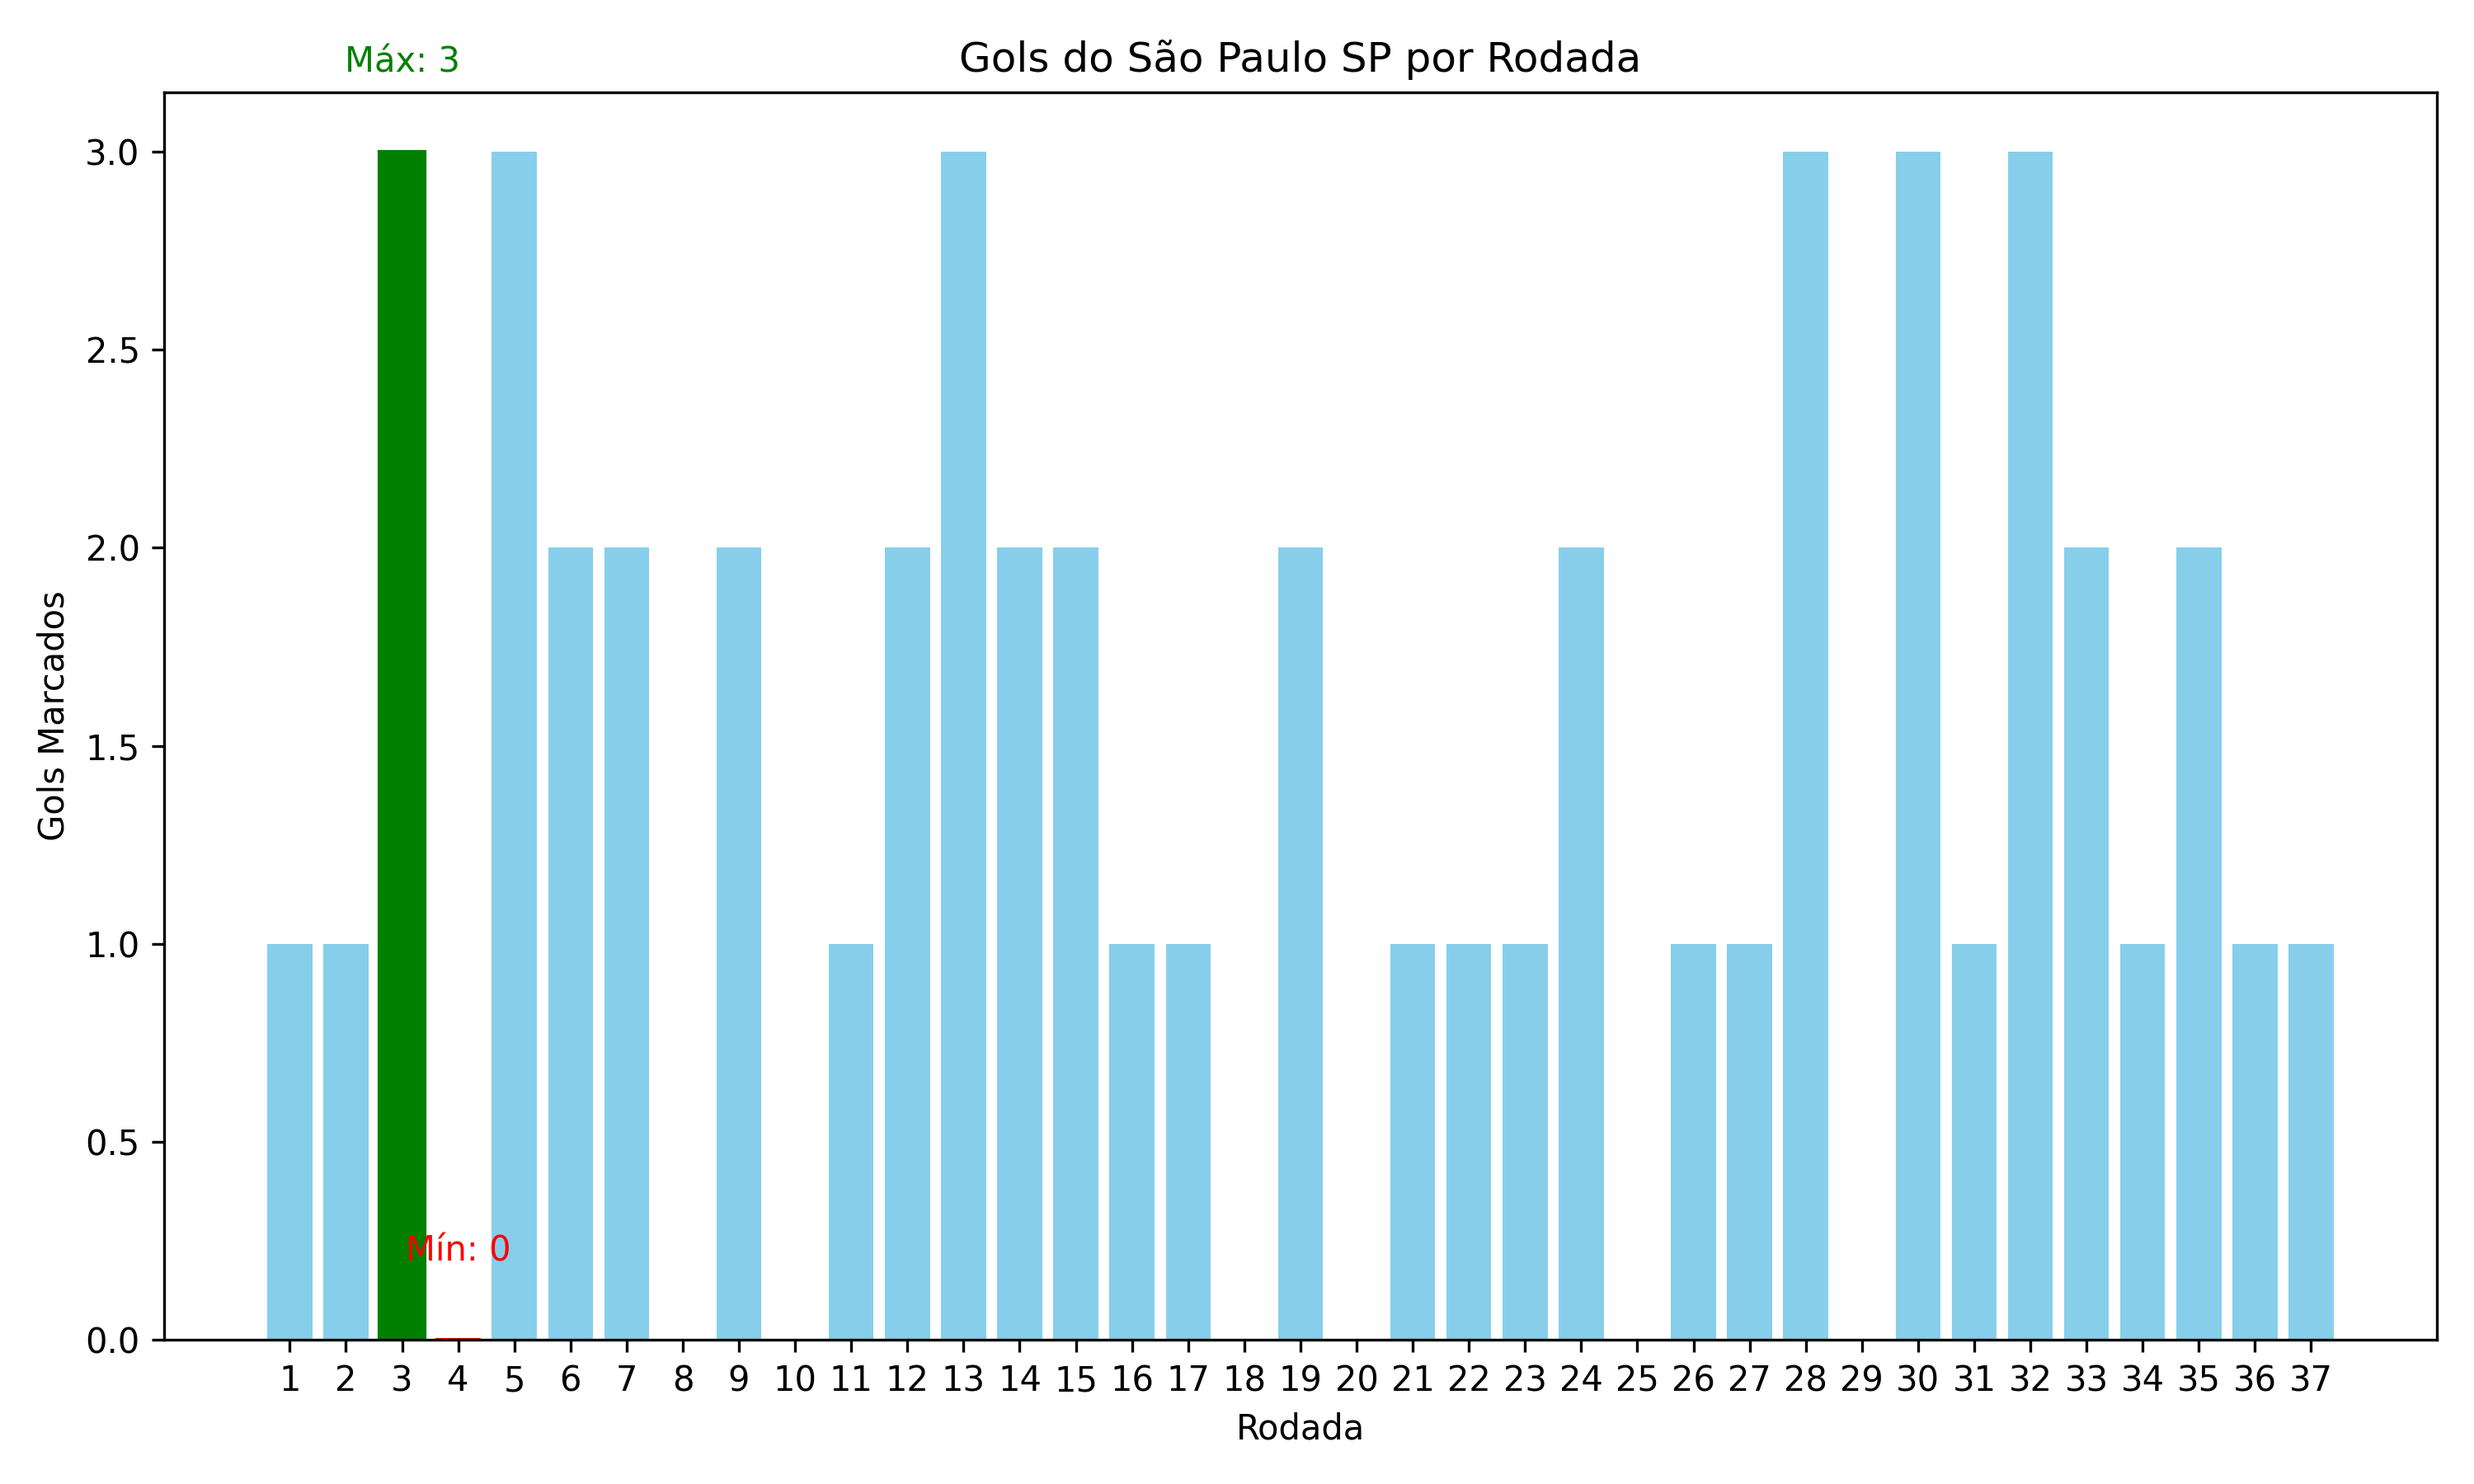
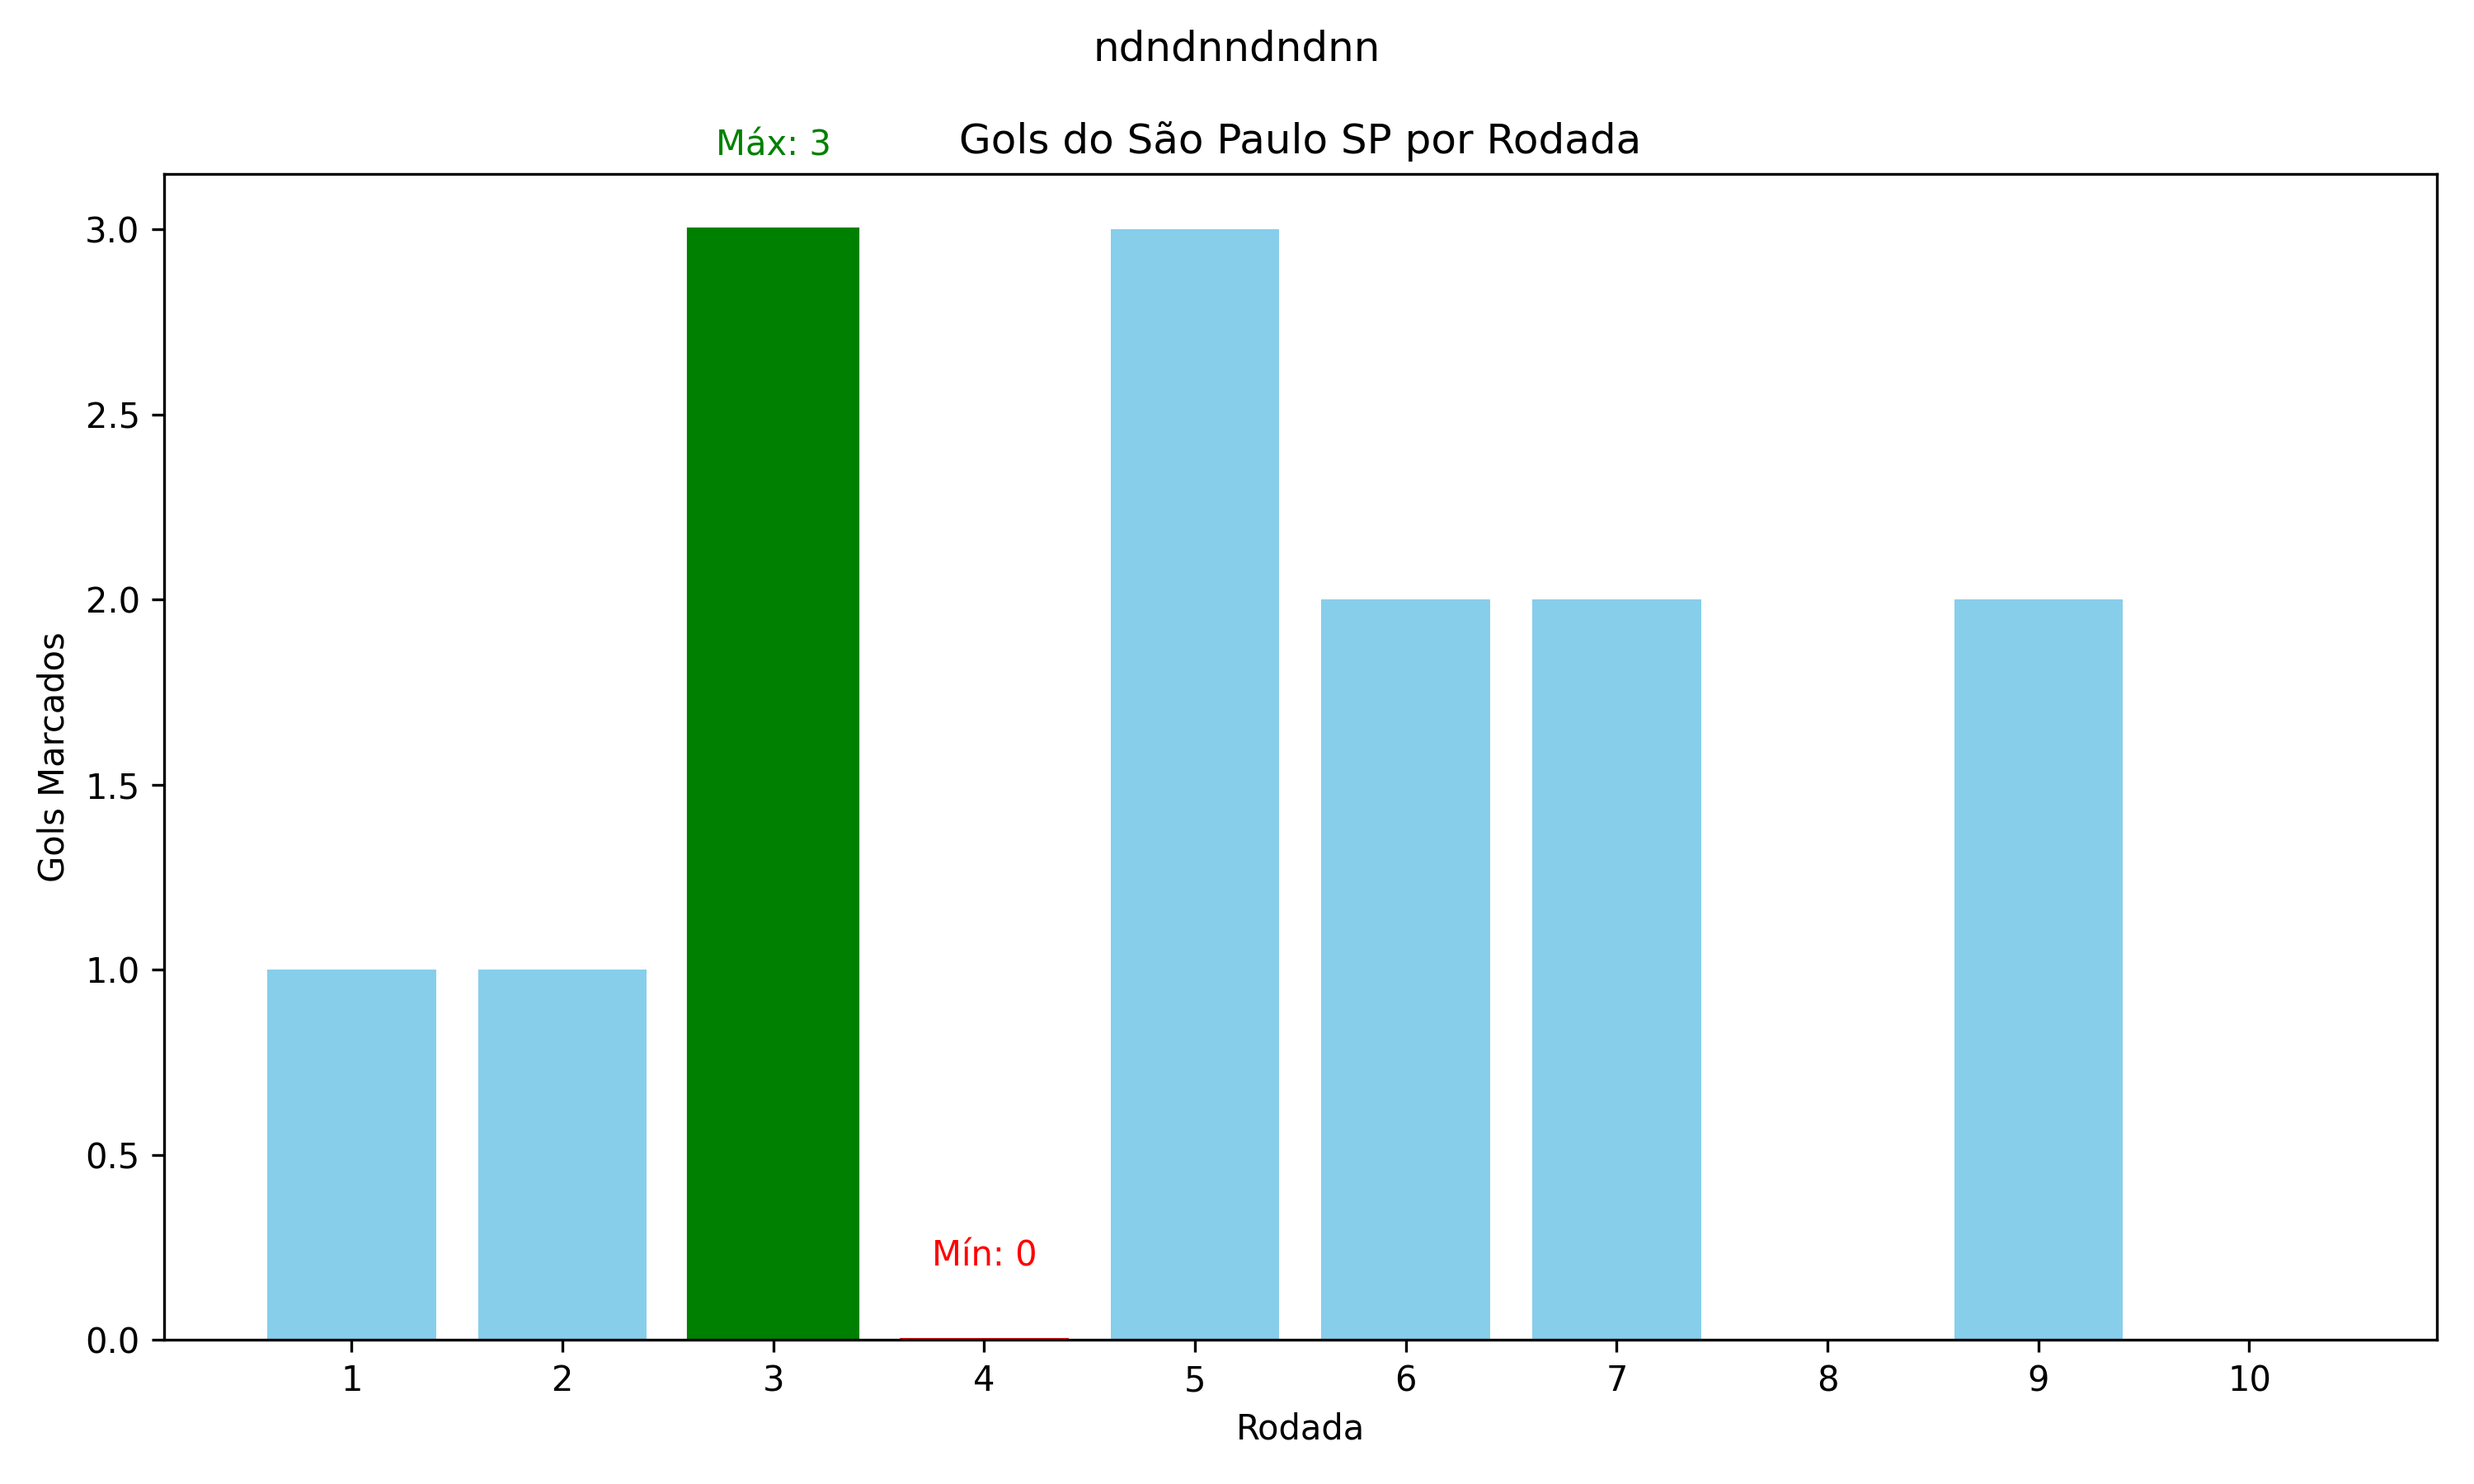
Gerando a saida do grafico para a pasta img

diff --git a/ETL/analyze_brasileirao2024.py b/ETL/analyze_brasileirao2024.py
@@ -1,5 +1,6 @@
 import pandas as pd
 import matplotlib.pyplot as plt
+import os
 
 # Caminho para o arquivo Excel
 path_excel = 'File/Brasileiro_2024.xlsx'
@@ -62,8 +63,8 @@ if 'ROD_NUM' not in df.columns:
     df['ROD_NUM'] = df['ROD'].str.extract(r'(\d+)').astype(int)
 
 # Filtra jogos com São Paulo SP como mandante ou visitante
-sp_mandante = df[df['GolMandante'].str.contains(r'^São Paulo SP', regex=True)].copy()
-sp_visitante = df[df['GolVisitante'].str.contains(r'^São Paulo SP', regex=True)].copy()
+sp_mandante = df_filter_2rod[df_filter_2rod['GolMandante'].str.contains(r'^São Paulo SP', regex=True)].copy()
+sp_visitante = df_filter_2rod[df_filter_2rod['GolVisitante'].str.contains(r'^São Paulo SP', regex=True)].copy()
 
 # Extrai gols e rodada
 sp_mandante['GOLS'] = sp_mandante['GolMandante'].str.extract(r' - (\d+)$').astype(int)
@@ -93,7 +94,7 @@ bars[gols_por_rodada.index.get_loc(rodada_max)].set_color('green')
 bars[gols_por_rodada.index.get_loc(rodada_min)].set_color('red')
 
 # Rótulos
-plt.title('Gols do São Paulo SP por Rodada')
+plt.title('Gols do São Paulo SP até a decima Rodada')
 plt.xlabel('Rodada')
 plt.ylabel('Gols Marcados')
 plt.xticks(gols_por_rodada.index)
@@ -102,6 +103,8 @@ plt.xticks(gols_por_rodada.index)
 plt.text(rodada_max, gols_por_rodada[rodada_max] + 0.2, f'Máx: {gols_por_rodada[rodada_max]}', ha='center', color='green')
 plt.text(rodada_min, gols_por_rodada[rodada_min] + 0.2, f'Mín: {gols_por_rodada[rodada_min]}', ha='center', color='red')
 
+os.makedirs('img', exist_ok=True)
+
 plt.tight_layout()
-plt.savefig('grafico_sao_paulo_sp.png', dpi=300)
+plt.savefig('img/grafico_sao_paulo_sp.png', dpi=300)
 print("✅ Gráfico salvo como 'grafico_sao_paulo_sp.png'")
